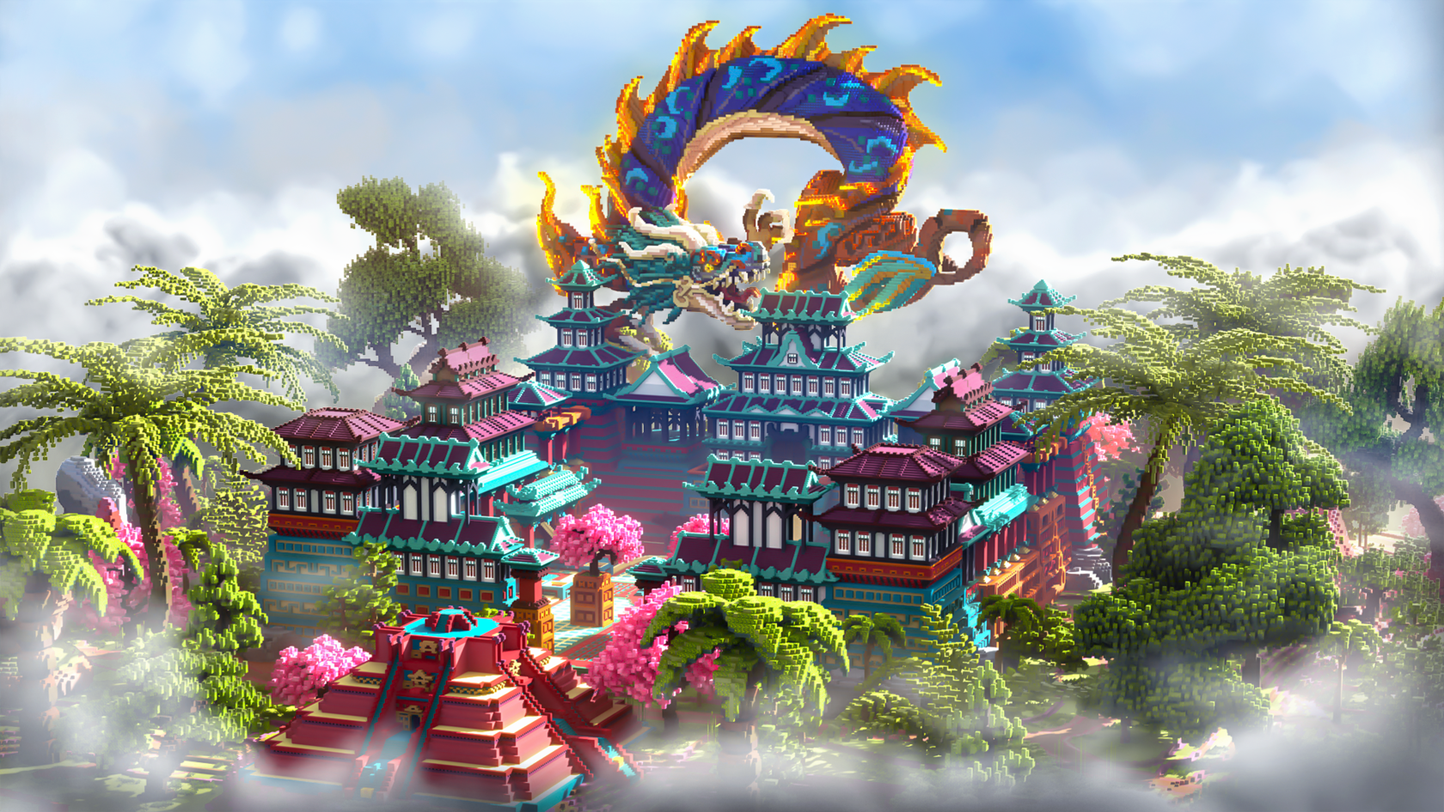
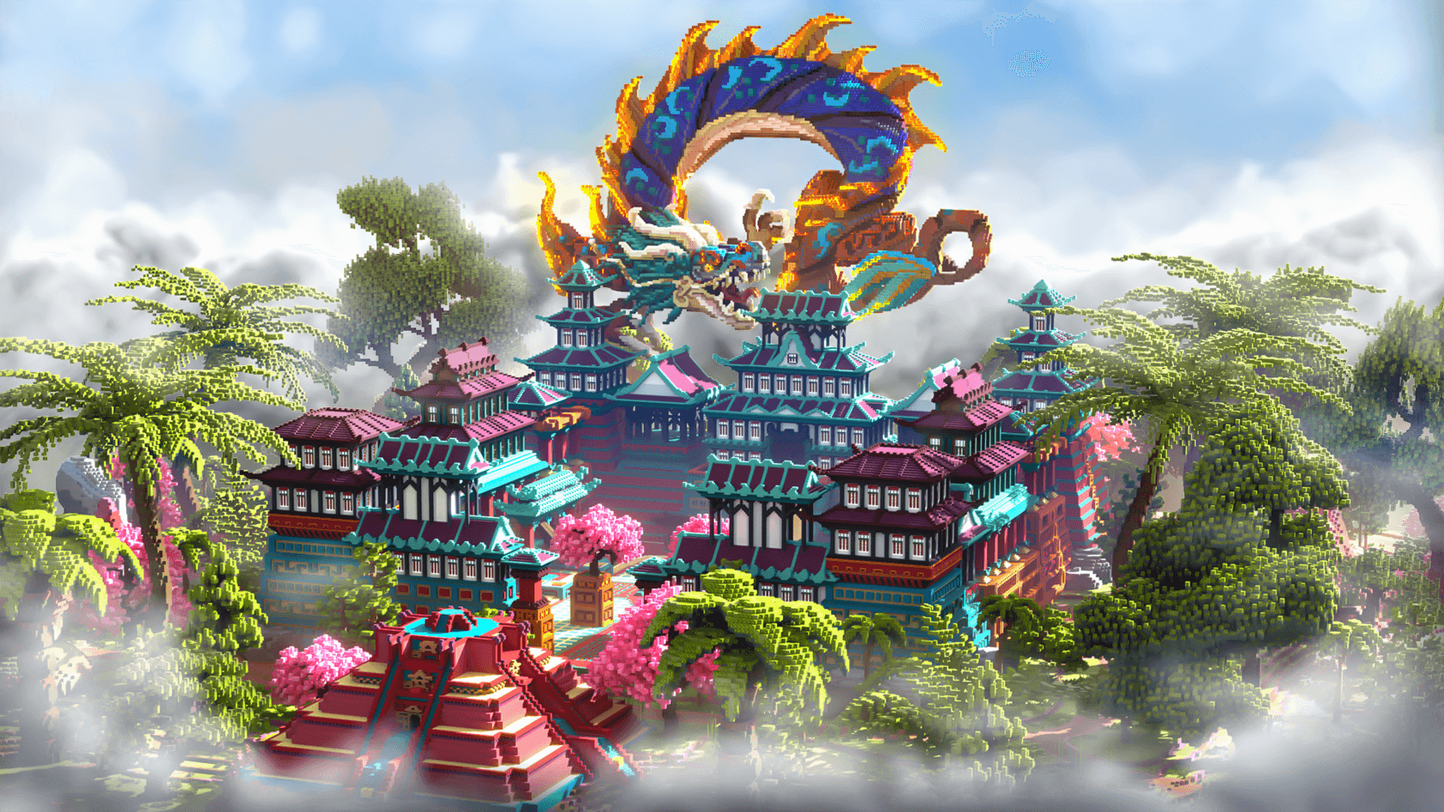
Optimize portfolio images (-80.5%); prep 11 new works + galleries
Resize all public/portfolio images to max 1920px and recompress with
sharp (121 MB -> 23.6 MB), format unchanged so DB image_url paths stay
valid. Masters backed up to assets/portfolio-originals (gitignored).
Enable AVIF/WebP in next.config.

Add SQL seeds for 11 new portfolio works (sort_order 17-27) and gallery
additions (hollowpeak-hold, pirate-rpg, yuletide-isle) — run manually
against Supabase, preview then prod.

diff --git a/next.config.ts b/next.config.ts
@@ -3,6 +3,9 @@ import type { NextConfig } from "next";
 const nextConfig: NextConfig = {
   images: {
     dangerouslyAllowSVG: true,
+    // Отдаём современные форматы: AVIF жмёт заметно сильнее WebP, WebP —
+    // запасной для браузеров без AVIF. next/image сам выбирает по Accept.
+    formats: ["image/avif", "image/webp"],
   },
 };
 

diff --git a/CLAUDE.md b/CLAUDE.md
@@ -39,12 +39,14 @@
 - **Остаток B/C перед мёржем в прод:** переменные Stripe и preview-Supabase в Vercel (Preview-окружение); вебхук-эндпоинт в Stripe Dashboard на прод-домен (live-режим — только когда решим включать реальные платежи); бакет `product-files` + файлы в прод-Storage (миграции `orders` и `record_paid_order()` на проде уже прогнаны).
 - **TODO инфра:** прописать preview-переменные Supabase в Vercel (Preview-окружение), чтобы ветка `dev` смотрела в preview-базу.
 - **Redesign страниц магазина + контент (2026-07-24).** `/shop`, `/shop/[slug]`, `/cart`, `/support` появились быстро — нужен визуальный проход + реальный контент (особенно `/support`). Совмещается с витриной-маркетплейсом. В рамках прохода: **пересмотреть названия кнопок** (Add to cart / View cart / Checkout и т.п.) и весь текст, **переделать карточки товаров**, **добавить рабочий поиск** и **реальные категории** (Assets/Landscape/Free — сейчас заглушки, нужна колонка категории в `products`).
+- **Ревью магазина под мобайл (2026-07-24).** Пройтись по `/shop`, `/shop/[slug]`, `/cart`, `/support` на мобильных ширинах — вёрстка, карточки товаров, навбар в режиме магазина (пилюля с `All Map · Assets · …` + Search/Cart/Login), формы чекаута. Совмещается с redesign магазина и общим респонсив-хвостом. Не начато.
 - **Демо-плашка Stripe (по желанию).** Магазин на проде в тест-режиме Stripe — реально проходит только тестовая карта `4242…`. Если делать публичное «демо, но работает» — добавить видимую плашку на витрине/чекауте с тест-картой (честно, чтобы посетитель не принял за настоящий магазин). Убрать при переходе на live-платежи.
 - **Навбар в режиме магазина (справка, не задача):** на `/shop`, `/shop/[slug]`, `/cart`, `/support` содержимое пилюли заменяется на `All Map · Assets · Landscape · Free` (работает только All Map) + Search-заглушка + `Support` (ссылка на `/support`, НЕ `/contact`) + Messages/Notifications-заглушки + рабочий Cart с бейджем + Login-заглушка (станет реальной на подэтапе Auth). Форма/высота/стекло пилюли не меняются никогда. Анимация перехода НЕ работает внутри магазина — только при выходе через лого SouCampus.
 
 ### Контент и визуал
 - **Переписать контент.** Названия страниц/секций, копирайтинг — отдельный проход по всему тексту сайта. Не начато.
-- **Портфолио: фото + новые работы (2026-07-24).** У части проектов в `src/lib/projects.ts` не хватает фото (одна вместо галереи — образец `gallery` у `ironholt`). Плюс добавить работы, которых ещё нет. Не начато.
+- **Портфолио: фото + новые работы (2026-07-24).** У части проектов не хватает фото (одна вместо галереи — образец у `ironholt`). Частично: 2026-07-25 добавлены галереи `hollowpeak-hold` (+3) и `pirate-rpg` (+1); у большинства старых работ галереи всё ещё нет.
+- **Добавить ВСЕ проекты + зарендерить новые (2026-07-24).** ⏳ 2026-07-25 подготовлены **11 новых работ** (`pinecliff-haven`, `duskspire-quarter`, `skyward-armada`, `driftstone-isles`, `emberpeak-village`, `sakura-hollow`, `arena-atoll`, `solace-spires`, `corsair-isle`, `yuletide-isle`, `dragon-cathedral`) — SQL в `supabase/seed_portfolio_2026-07-25.sql` + `seed_galleries_2026-07-25.sql`. **Осталось прогнать SQL: preview → прод** (сайт читает список из БД, без прогона на проде работы не появятся). Порядок: portfolio-файл, потом galleries.
 - **Пересмотреть дизайн-систему целиком: цвета, кнопки, контрастность** — отдельным осознанным проходом (решено 2026-07-20). Известные проблемы контраста (WCAG, порог 4.5 текст / 3.0 крупное и графика):
   - Цифры в `Stats.tsx` — светлая тема `orange-400`/`lime-300`/`blue-400` дают 2.27/1.26/2.55 при 3.0. Предложено `orange-600`/`lime-650`/`blue-550` (3.51/3.87/4.26).
   - Кнопка «Join Discord» на `/contact` — hover `blue-600` с чёрным текстом 3.79 при 4.5. Предложено `hover:bg-blue-550` (4.53).
@@ -54,13 +56,18 @@
 - **Ускорить анимацию перехода.** Волна квадратиков (`PageTransition.tsx`) ощущается медленной. Крутить константы вверху файла: `ROW_DELAY`, `CELL_DURATION`, `HOLD_MS`, `JITTER`. Свериться с `docs/DESIGN.md` (раздел про переход) и обновить числа там, если зафиксированы. Не начато.
 
 ### Производительность (одна тема — вес страницы)
-- **Оптимизация картинок/загрузки — СЛЕДУЮЩИЙ БОЛЬШОЙ ШАГ ПОСЛЕ подэтапов магазина A-E** (решено 2026-07-24). Форматы (webp/avif), стратегия загрузки (всё сразу vs lazy), сжатие исходников. Часть файлов в `public/portfolio/` тяжёлые (5-14 МБ); `next/image` оптимизирует на лету, но перед прод-нагрузкой сжать оригиналы. Также: `PortfolioHero.tsx` рендерит мобильную И десктопную карусель одновременно (разница только в CSS), у обеих `priority` — двойная приоритетная загрузка, поправить тут же. Не начато.
+- **Оптимизация картинок/загрузки.** Частично сделано 2026-07-25: исходники `public/portfolio/` ужаты **121 МБ → 23.6 МБ (−80.5%)** (ресайз до 1920px + пережатие, формат сохранён — БД не трогали); оригиналы в `assets/portfolio-originals/` (в `.gitignore`); в `next.config.ts` включены `formats: ["image/avif","image/webp"]`. **Осталось:** (а) `PortfolioHero.tsx` рендерит мобильную И десктопную карусель одновременно, у обеих `priority` — двойная приоритетная загрузка, поправить; (б) по желанию — перевести исходники на диске в WebP (нужна миграция `image_url` в БД, preview→прод, ~−20 МБ репо, для визитёра ничего не меняет — Next и так отдаёт AVIF/WebP); (в) стратегия lazy vs eager по остальным местам.
 - **Пересмотреть, сколько компонентов реально клиентские.** 15 из 19 компонентов `"use client"`, у большинства единственная причина — появление-при-скролле через `motion/react`. Заметный JS ради эффекта, который часто делается чистым CSS (`@keyframes` + `animation-timeline: view()` или короткий `IntersectionObserver`). Разделить «анимация — характер сайта, оставляем» и «хватит CSS». Делать вместе с оптимизацией картинок — одна тема. Не начато.
 
 ### Тех-долг и хвосты
 - **Фиксы из аудита 2026-07-22 (`docs/CHANGELOG.md`):** (а) `/portfolio/[slug]` рендерится динамически из-за чтения `searchParams` (`?from=home`) — заменить на клиентский компонент back-ссылки с `useSearchParams` под `<Suspense>`; (б) `permissions: contents: read` в `ci.yml`; (в) следить за `npm audit` — sharp/postcss закроет патч next 16.x, `npm audit fix --force` не запускать; (г) при росте страниц — `getViewCount(path)` вместо `getViewCounts()` на деталке.
 - **Расширять тесты** по мере появления новой нетривиальной логики (не откладывать до Этапа 5).
 - **SEO вне кода (владелец):** GSC подтверждён (DNS-TXT, 2026-07-21) → отправить `sitemap.xml` после деплоя; завести профили (PlanetMinecraft/YouTube/Reddit/X) под именем SouCampus и вписать в `SITE_SAMEAS`; набирать обратные ссылки.
+- **SEO-люто: пробить магазин в топ + узнаваемость бренда (2026-07-24, обсуждали).** Разбито на три фронта:
+  - **Фавикон в поиске Google.** Технически иконка есть (`src/app/icon.png` 512×512, Next отдаёт `<link rel="icon">`), но Google её не показывает. Причина — молодой сайт + краулинг иконок идёт отдельно и медленно. Сделать: (1) добавить `public/favicon.ico` (многоразмерный 16/32/48 из `logoSouCampus.png`) — Google в первую очередь смотрит `/favicon.ico` в корне; (2) убедиться, что `/favicon.ico` и `/icon.png` не закрыты в `robots.ts`; (3) в GSC переиндексировать главную (URL Inspection → Request indexing); (4) дальше ждать, форсировать нельзя.
+  - **Ранжирование по «minecraft builds».** Head-запрос дичайше конкурентный (PMC/Reddit/YouTube) — молодым сайтом не взять. Стратегия: (а) целиться в long-tail с покупательским intent — `custom minecraft builds commission`, `hire minecraft builder`, `minecraft map commission`, `buy minecraft maps` — под каждый своя оптимизированная страница (H1/title/description); (б) контент-страницы/блог под запросы («how much does a custom minecraft build cost», «how to commission a minecraft map»); (в) обратные ссылки — профили PMC/YouTube/Reddit/ArtStation со ссылкой на сайт (самое важное и медленное); (г) публиковать товары — каждая карта = индексируемая страница с уникальным описанием (сейчас `/shop` в noindex, пока пусто). Техника уже закрыта — решают контент и ссылки.
+  - **Узнаваемость бренда в ИИ-поиске / AI Overview.** ИИ строит «сущность» из согласованных повторяющихся упоминаний. Сделать: (а) единое имя+описание в bio на всех площадках («SouCampus builds — custom Minecraft maps & structures on commission»); (б) Reddit — не рекламный пост, а полезный showcase в r/Minecraft / r/MinecraftBuilds с упоминанием работы на заказ, ссылка в профиле; (в) заполнить `SITE_SAMEAS` реальными профилями (машинный сигнал «все аккаунты = одна сущность»); (г) присутствие, которое ИИ индексирует — YouTube с таймлапсами, посты на Planet Minecraft.
+  - **Промо-посты про сайт везде (владелец, 2026-07-24).** Регулярно постить про soucampus.online на всех своих площадках со ссылкой на сайт. Известные аккаунты (вписать в `SITE_SAMEAS`): **X (Twitter) — https://x.com/CouSampus** (⚠ хэндл `CouSampus` — переставлены слоги относительно бренда «SouCampus», проверить, не опечатка ли / не путает ли узнаваемость); **YouTube — https://www.youtube.com/@SouCampus**. По мере появления профилей PMC/Reddit/Instagram/TikTok — постить и туда, ссылку в bio.
 - **Респонсив — хвост.** Осталось по мелочи (`docs/RESPONSIVE_PLAN.md` → «Осталось»). Финал: перенести устоявшиеся правила в `docs/DESIGN.md`, тогда `RESPONSIVE_PLAN.md` удалить.
 
 ## Архив (сделано — детали в `docs/CHANGELOG.md`)

diff --git a/docs/CHANGELOG.md b/docs/CHANGELOG.md
@@ -2,6 +2,11 @@
 
 История изменений по SouCampus builds, по датам (новые сверху). Это архив "что и почему сделали" — для активных планов и текущего состояния сайта см. `CLAUDE.md`.
 
+## 2026-07-25
+
+- **Оптимизация картинок портфолио: 121 МБ → 23.6 МБ (−80.5%).** Все файлы в `public/portfolio/` ресайзнуты до макс. 1920px по ширине и пережаты (`sharp`), формат сохранён (PNG/JPG/WebP) — поэтому пути в БД не менялись, миграция не нужна. Самые тяжёлые: `amethyst-grove` 14.4 МБ → 0.96 МБ, `nova-ringport` 8.5 → 0.77, `voidframe-enclave` 8.6 → 0.31. `prismport` откатили (исходник — WebP под расширением `.png`, пере-кодирование в настоящий PNG его раздувало). Оригиналы-мастера сложены в `assets/portfolio-originals/` (добавлено в `.gitignore` — лежат локально, в деплой/репо не идут). В `next.config.ts` включены `formats: ["image/avif","image/webp"]` (AVIF жмёт сильнее дефолтного WebP). Причина, почему это безопасно без потери качества: `next/image` и так отдаёт визитёру ужатый AVIF/WebP под ширину вёрстки — исходный формат/разрешение на диске он не видит.
+- **11 новых работ портфолио + доборы галерей (подготовлены, ждут прогона SQL).** Пользователь добавил рендеры; переименованы в осмысленные slug'и, оптимизированы тем же проходом. Новые проекты (sort_order 17-27): Pinecliff Haven, Duskspire Quarter, Skyward Armada, Driftstone Isles, Emberpeak Village, Sakura Hollow, Arena Atoll, Solace Spires, Corsair Isle, Yuletide Isle, Dragon Cathedral. Галереи: `hollowpeak-hold` +3, `pirate-rpg` +1, `yuletide-isle` +1 (`emberfall-manor` — тот же остров в осенней теме, поэтому фото галереи, не отдельный проект). SQL: `supabase/seed_portfolio_2026-07-25.sql` (проекты, идемпотентный `on conflict (slug)`) и `supabase/seed_galleries_2026-07-25.sql` (галереи, delete+insert по slug, запускать ПОСЛЕ проектного). Оба прогнать вручную: **preview → прод** (правило preview-first). `seed.sql` не трогали — он замороженный исторический слепок. Все 16 `image_url` сверены с файлами на диске.
+
 ## 2026-07-24
 
 - **Реструктуризация документации.** `CLAUDE.md` разросся до 348 строк / 58 КБ и грузился в контекст каждую сессию целиком. Разнесли по назначению: `CLAUDE.md` (ужат до ~90 строк) держит только активный план + статус; вынесены **`docs/RULES.md`** (обязательные правила сессий: как объяснять код, git-воркфлоу, коммиты без авторства ИИ, API-конвенция, юридическое), **`docs/ROADMAP.md`** (видение, стек и почему, этапы 1-5, решение по backend), **`docs/IDEAS.md`** (бэклог), **`docs/SHOP.md`** (видение магазина-маркетплейса). Все `.md` кроме `CLAUDE.md`/`README.md`/`AGENTS.md` переехали в папку `docs/` (git-history сохранена через `git mv`); кросс-ссылки и пути в скиллах обновлены.
